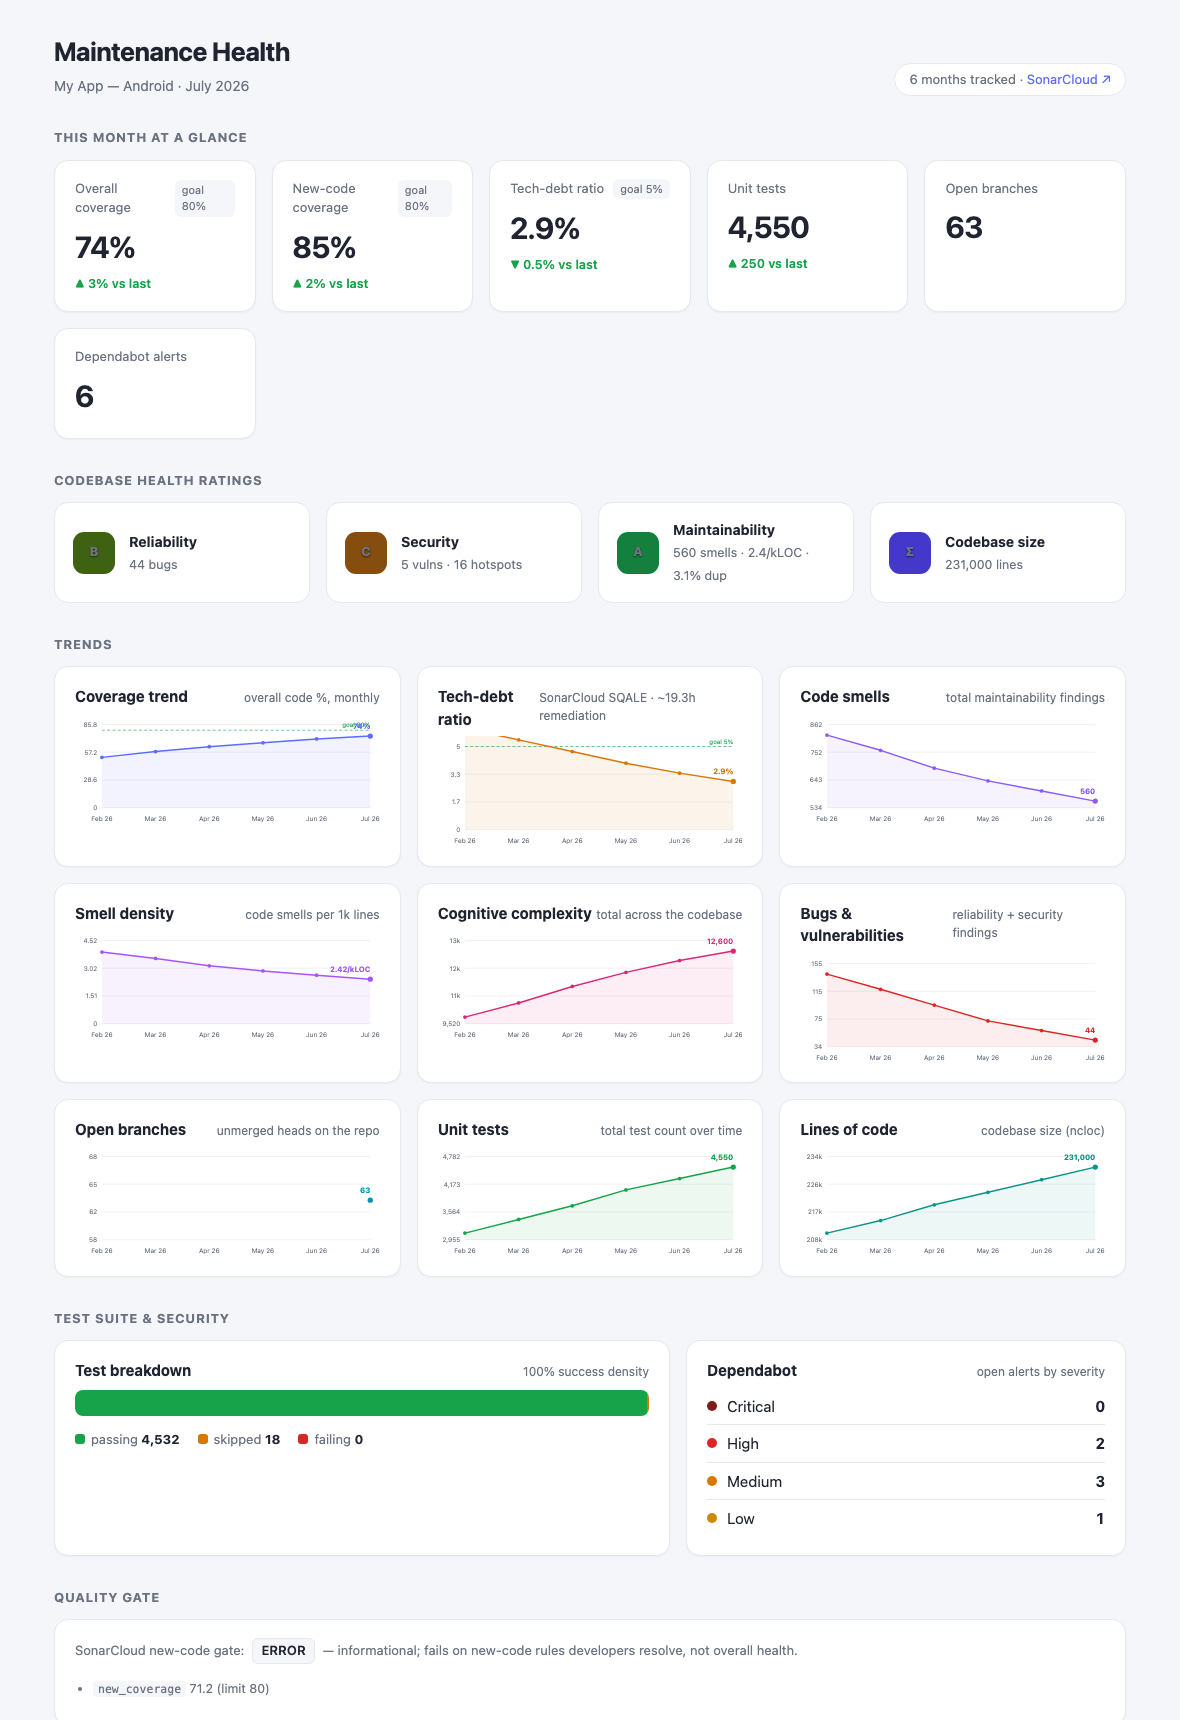
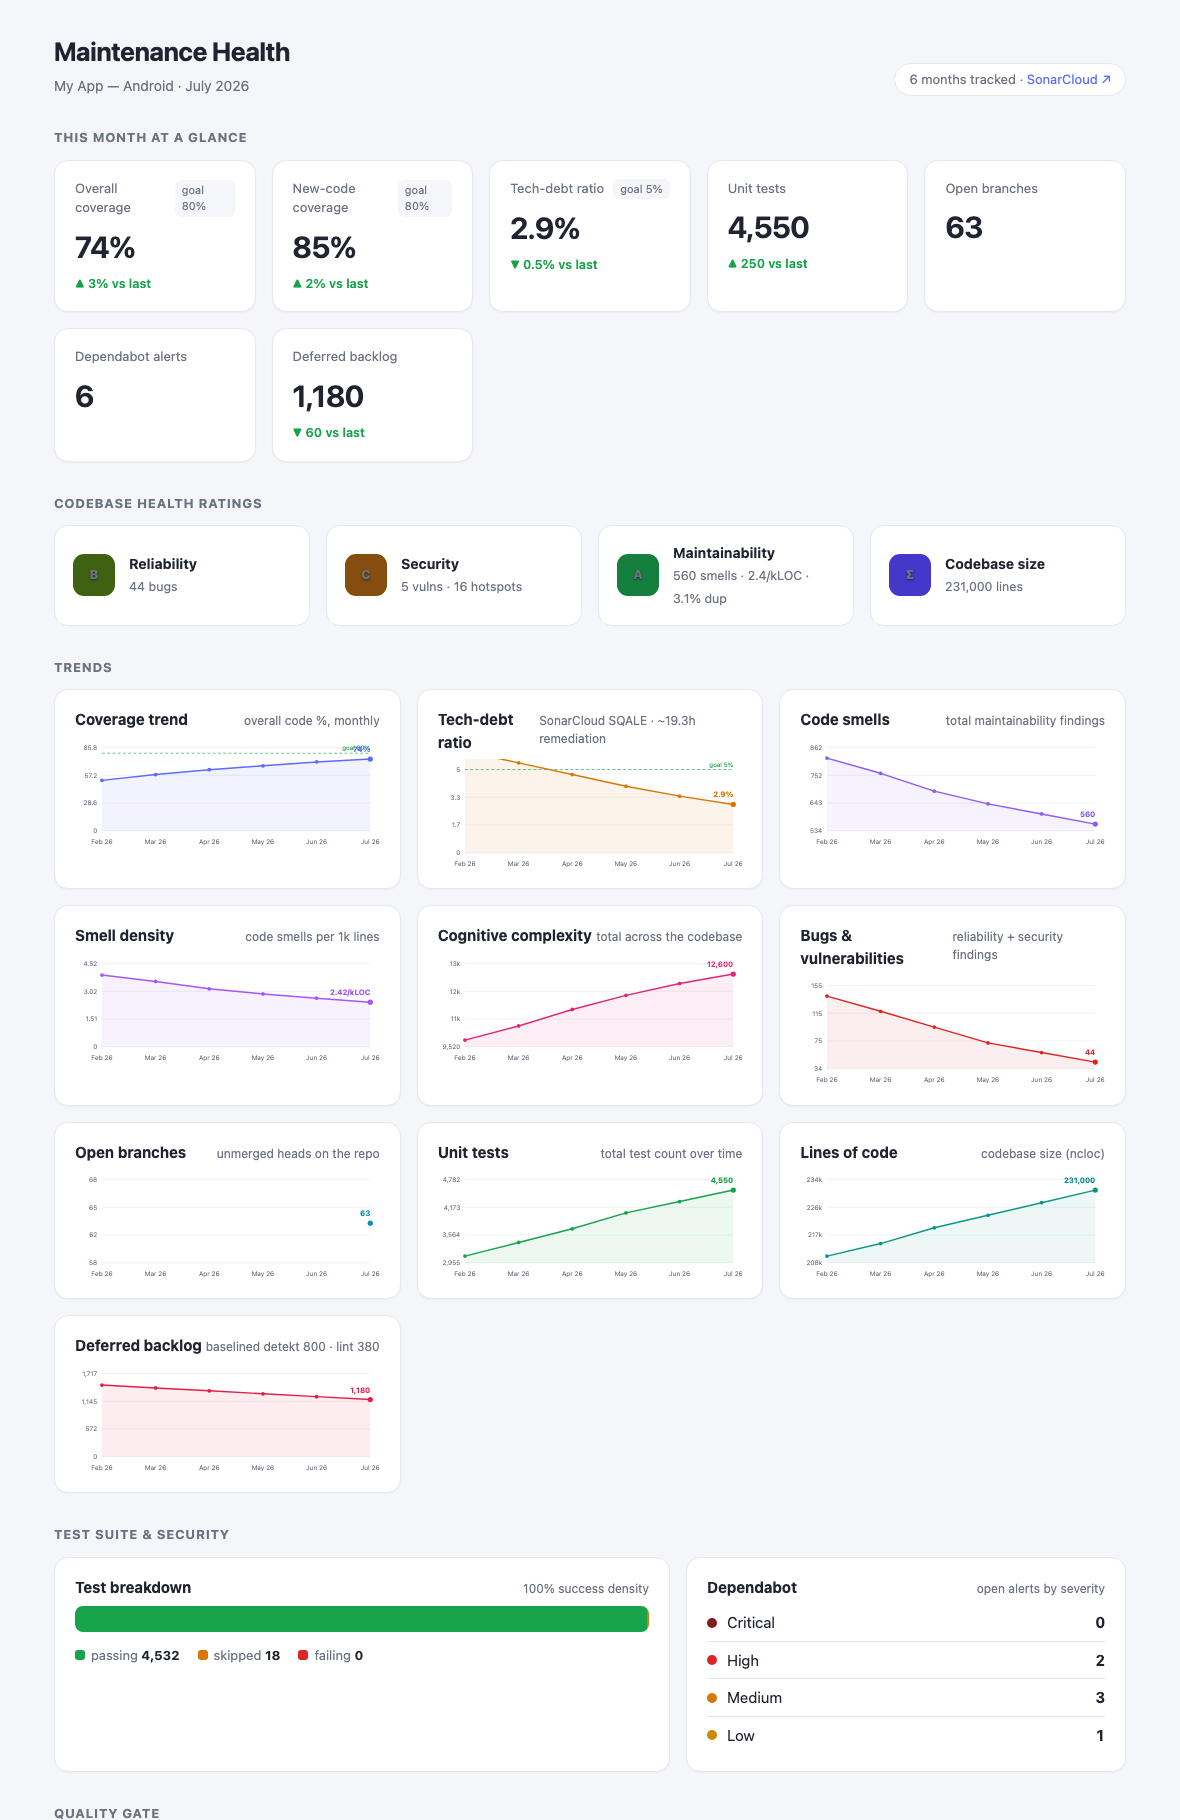
Add deferred maintenance backlog metric (detekt/lint baselines)
Sonar's smell count only reflects un-baselined imported findings; the real
maintainability debt lives in the repo's detekt/Android Lint baselines. New
metric counts DISTINCT baselined issue IDs (union across variant baselines, so
overlap doesn't double-count) — read from the repo via gh, no SonarCloud/CI
config change. Adds a KPI + trend chart on both surfaces.

diff --git a/static/app.js b/static/app.js
@@ -16,6 +16,7 @@ const CHARTS = [
   {key:"open_branches",    label:"Open branches",        sub:"unmerged heads on the repo",color:"#0891b2", unit:"",  acc:s=>g(s,"github","open_branches")},
   {key:"tests",            label:"Unit tests",           sub:"total test count over time",color:GOOD,     unit:"",  acc:s=>g(s,"sonar","tests")},
   {key:"ncloc",            label:"Lines of code",        sub:"codebase size (ncloc)",   color:"#0d9488",  unit:"",  acc:s=>g(s,"sonar","ncloc")},
+  {key:"baseline_total",   label:"Deferred backlog",     sub:"detekt + lint baselined issues",color:"#e11d48",unit:"",yMin:0,acc:s=>g(s,"baselines","total")},
 ];
 
 let STATE = {config:{}, snapshots:[]};
@@ -90,6 +91,7 @@ function renderKpis(snaps, cur, prev){
     kpiCard("Unit tests", g(cur,"sonar","tests"), g(prev,"sonar","tests"), {dec:0,higher:true}),
     kpiCard("Open branches", g(cur,"github","open_branches"), g(prev,"github","open_branches"), {dec:0,higher:false}),
     kpiCard("Dependabot alerts", dep(cur), dep(prev), {dec:0,higher:false}),
+    kpiCard("Deferred backlog", g(cur,"baselines","total"), g(prev,"baselines","total"), {dec:0,higher:false}),
   ].join("");
 }
 

diff --git a/sources.py b/sources.py
@@ -12,10 +12,12 @@ from __future__ import annotations
 import base64
 import json
 import os
+import re
 import subprocess
 import urllib.error
 import urllib.parse
 import urllib.request
+import xml.etree.ElementTree as ET
 
 # SonarCloud metric keys we snapshot. new_* metrics arrive under `periods`,
 # everything else under `value` — see _measure_value below.
@@ -239,3 +241,58 @@ def fetch_github(cfg: dict) -> dict | None:
     if result["open_branches"] is None and result["dependabot"] is None:
         return None
     return result
+
+
+def fetch_baselines(cfg: dict) -> dict | None:
+    """Count the *deferred maintenance backlog* — issues suppressed in the repo's
+    detekt / Android Lint baseline files. These are the style/complexity/
+    maintainability findings that live outside SonarCloud (by design), so Sonar's
+    smell count doesn't reflect them.
+
+    Counts DISTINCT issue IDs across all baseline files (union, not sum): a repo
+    keeps per-variant baselines (-debug/-main/-legacy) that overlap heavily, so
+    summing would double-count. Union by issue identity is dedup-correct.
+    """
+    owner, repo = cfg["owner"], cfg["repo"]
+    raw = _gh(["api", f"/repos/{owner}/{repo}/git/trees/HEAD?recursive=1"])
+    if not raw:
+        return None
+    try:
+        tree = json.loads(raw)
+    except ValueError:
+        return None
+    blobs = {t["path"]: t["sha"] for t in tree.get("tree", []) if t.get("type") == "blob"}
+    detekt_files = [p for p in blobs if p.rsplit("/", 1)[-1].startswith("detekt-baseline") and p.endswith(".xml")]
+    lint_files = [p for p in blobs if "lint-baseline" in p.rsplit("/", 1)[-1] and p.endswith(".xml")]
+    if not detekt_files and not lint_files:
+        return None
+
+    def content(sha: str) -> str:
+        b = _gh(["api", f"/repos/{owner}/{repo}/git/blobs/{sha}"])
+        if not b:
+            return ""
+        try:
+            return base64.b64decode(json.loads(b)["content"]).decode("utf-8", "replace")
+        except Exception:  # noqa: BLE001
+            return ""
+
+    # detekt baseline: each suppressed finding is a <ID>Rule:signature$hash</ID>
+    detekt_ids = set()
+    for p in detekt_files:
+        detekt_ids.update(re.findall(r"<ID>(.*?)</ID>", content(p and blobs[p]), re.S))
+
+    # Android Lint baseline: <issue id=..><location file= line=/></issue>
+    lint_ids = set()
+    for p in lint_files:
+        try:
+            root = ET.fromstring(content(blobs[p]))
+        except ET.ParseError:
+            continue
+        for iss in root.findall("issue"):
+            loc = iss.find("location")
+            lint_ids.add((iss.get("id"),
+                          loc.get("file") if loc is not None else "",
+                          loc.get("line") if loc is not None else ""))
+
+    return {"detekt": len(detekt_ids), "lint": len(lint_ids),
+            "total": len(detekt_ids) + len(lint_ids)}

diff --git a/report.py b/report.py
@@ -207,12 +207,17 @@ def build_report(snapshots: list[dict], cfg: dict, generated_at: str) -> str:
     ps = (prev or {}).get("sonar") or {} if prev else {}
     g = latest.get("github") or {}
     pg = (prev or {}).get("github") or {} if prev else {}
+    bl = latest.get("baselines") or {}
+    pbl = (prev or {}).get("baselines") or {} if prev else {}
 
     def sonar_series(key):
         return [(snap["month"], (snap.get("sonar") or {}).get(key)) for snap in snapshots]
 
     def gh_series(key):
         return [(snap["month"], (snap.get("github") or {}).get(key)) for snap in snapshots]
+
+    def baseline_series(key):
+        return [(snap["month"], (snap.get("baselines") or {}).get(key)) for snap in snapshots]
 
     def density_series():
         # code smells per 1k lines — normalizes for codebase growth
@@ -250,6 +255,8 @@ def build_report(snapshots: list[dict], cfg: dict, generated_at: str) -> str:
         kpi_card("Open branches", g.get("open_branches"), pg.get("open_branches"), decimals=0,
                  higher_better=False),
         kpi_card("Dependabot alerts", dep_total(g.get("dependabot")), dep_total(pg.get("dependabot")),
+                 decimals=0, higher_better=False),
+        kpi_card("Deferred backlog", bl.get("total"), pbl.get("total"),
                  decimals=0, higher_better=False),
     ])
 
@@ -297,6 +304,9 @@ def build_report(snapshots: list[dict], cfg: dict, generated_at: str) -> str:
             sonar_series("tests"), color=GOOD, decimals=0)),
         chart_card("Lines of code", "codebase size (ncloc)", line_chart(
             sonar_series("ncloc"), color="#0d9488", decimals=0)),
+        chart_card("Deferred backlog",
+                   f"baselined detekt {_fmt(bl.get('detekt'),'',0)} · lint {_fmt(bl.get('lint'),'',0)}",
+                   line_chart(baseline_series("total"), y_min=0, color="#e11d48", decimals=0)),
     ])
 
     # test breakdown + dependabot

diff --git a/maintdash.py b/maintdash.py
@@ -57,11 +57,17 @@ def snapshot(cfg: dict) -> dict:
         dep = github.get("dependabot") or {}
         print(f"  ✓ github: branches {github.get('open_branches')}  dependabot {dep.get('total')}")
 
+    baselines = sources.fetch_baselines(cfg["github"])
+    if baselines:
+        print(f"  ✓ baselines: {baselines['total']} deferred "
+              f"(detekt {baselines['detekt']} · lint {baselines['lint']})")
+
     snap = {
         "month": current_month(),
         "captured_at": datetime.now(timezone.utc).isoformat(timespec="seconds"),
         "sonar": sonar,
         "github": github,
+        "baselines": baselines,
     }
     DATA_DIR.mkdir(exist_ok=True)
     out = DATA_DIR / f"{snap['month']}.json"

diff --git a/README.md b/README.md
@@ -32,6 +32,15 @@ like DORA/build-time — those belong to a separate concern):
 | Lines of code | SonarCloud |
 | Open branches | GitHub |
 | Dependabot alerts by severity | GitHub |
+| Deferred maintenance backlog (distinct detekt + Android Lint baseline issues) | GitHub repo |
+
+> **Note on Sonar code smells:** if your project enforces style/complexity/
+> maintainability via detekt / Android Lint / ktlint per-PR (with baselines) and
+> reserves SonarCloud for security rules, the Sonar smell count reflects only
+> *un-baselined* findings — not your true debt. The **Deferred backlog** metric
+> reads the repo's baseline files directly (union of distinct issue IDs, so
+> per-variant baselines don't double-count) to show the real backlog. It needs no
+> SonarCloud config change.
 
 ## Requirements
 
